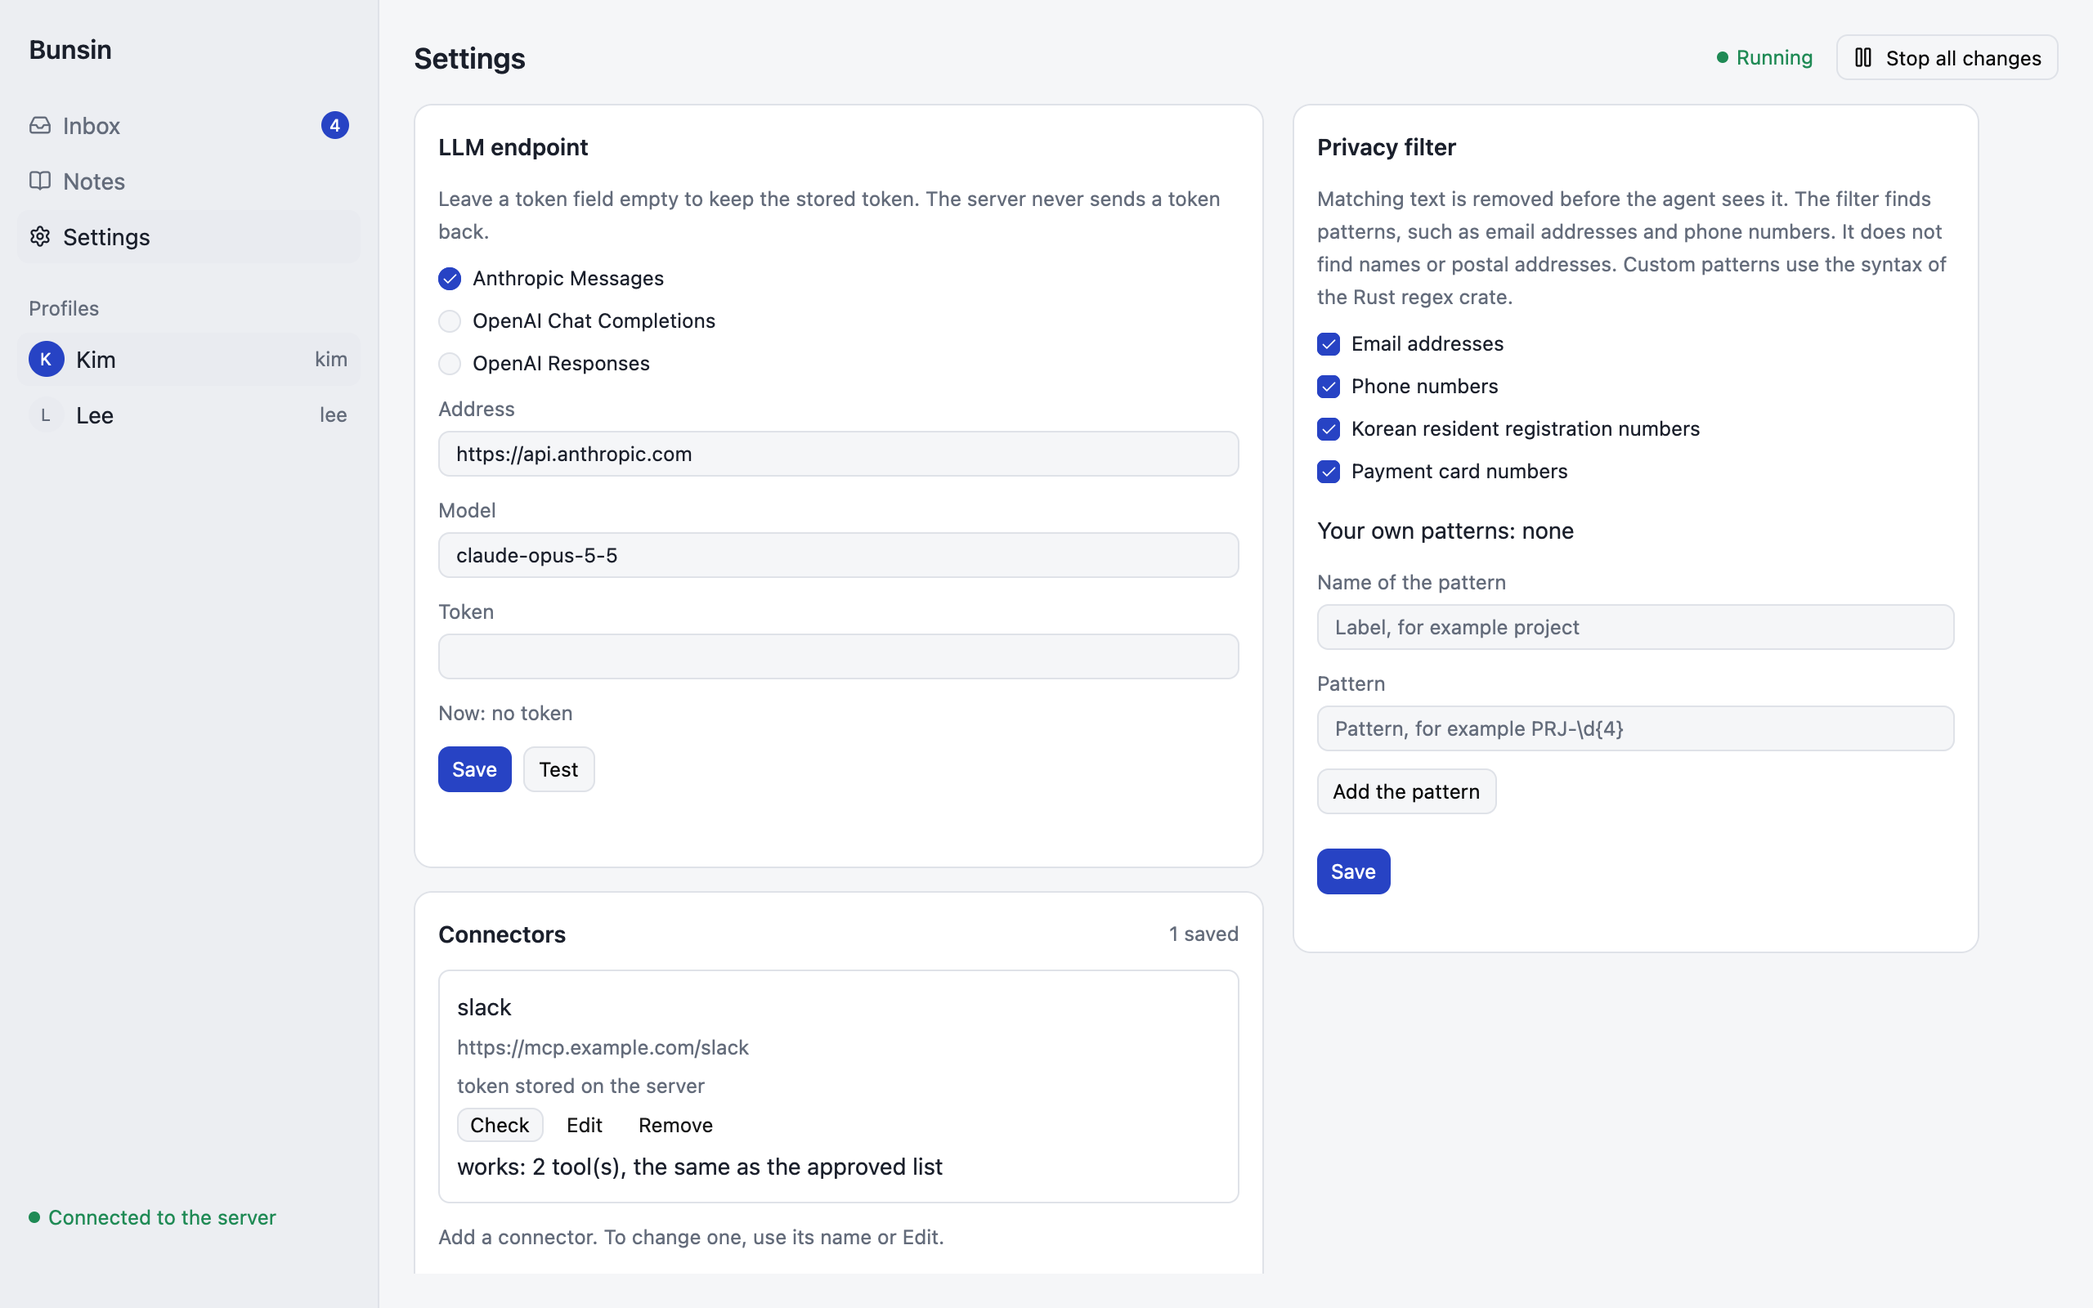
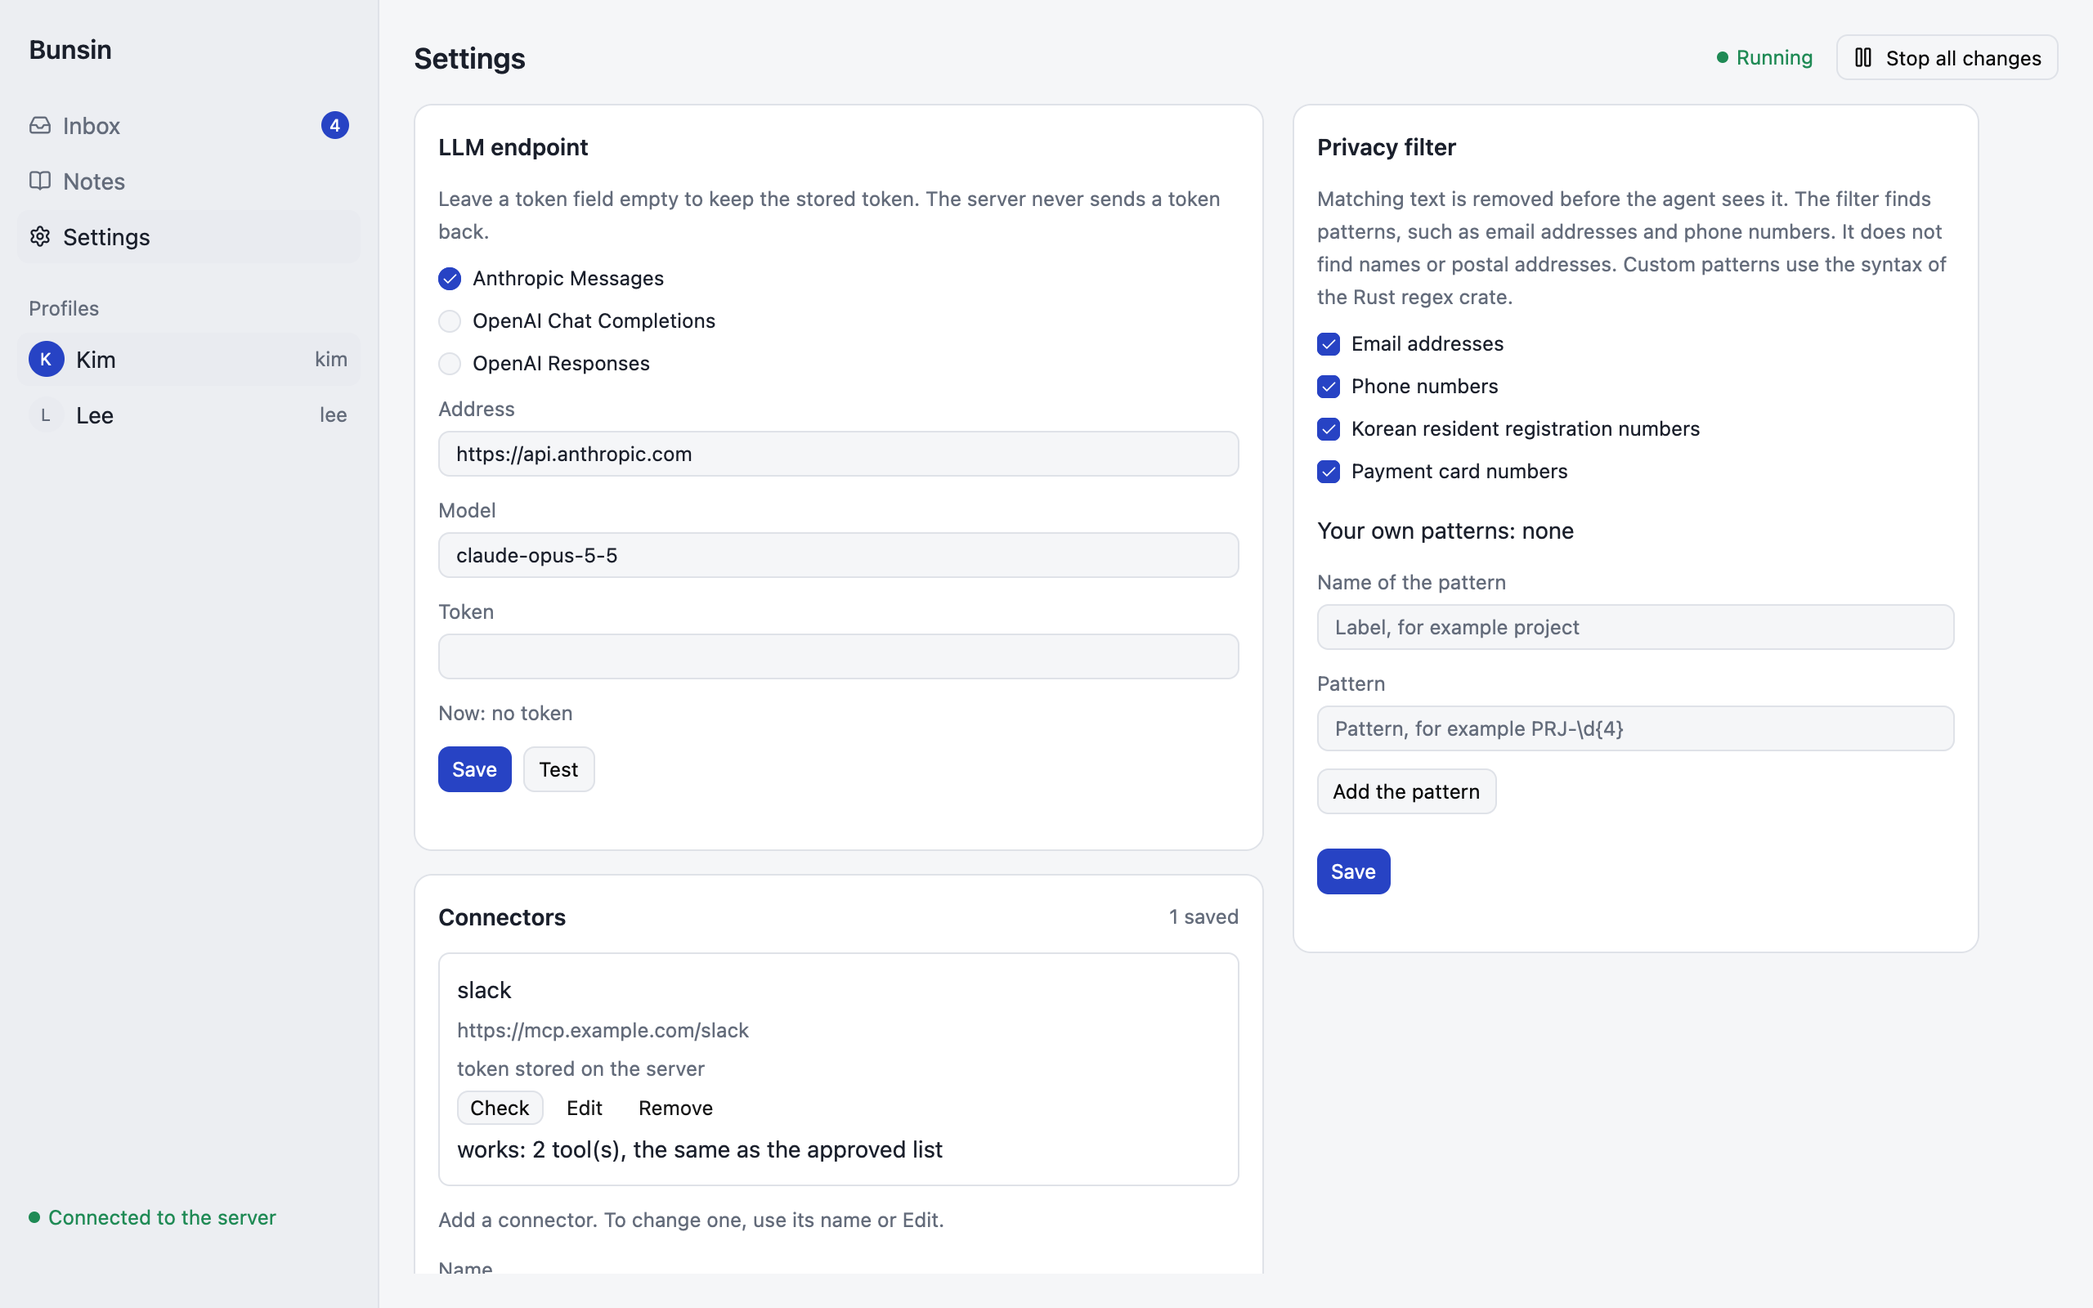
Refuse a reserved token header in every settings path
- The header check sits with the address rules, so config-set and every connect pass it.
  Before, a settings file could name Host as the token header.
- llm-set has defaults only for the Claude format.
- The window shows a test result only beside the saved endpoint, and says that a test runs.

Changed region(s): [[0.1875, 0.6875, 0.4688, 0.9688], [0.5625, 0.6875, 0.5938, 0.7188]]

diff --git a/crates/app/tests/connections.rs b/crates/app/tests/connections.rs
@@ -1113,6 +1113,8 @@ fn test_sends_one_request_to_the_saved_endpoint_and_shows_the_result(cx: &mut Te
             label(window, "llm-message"),
             "Save the endpoint first. The test uses the saved settings."
         );
+        // The earlier "Works" was for the saved model. It is not shown beside another one.
+        assert_eq!(label(window, "llm-test"), "");
         fill(window, cx, "llm-model", "m");
     });
     assert_eq!(rig.llm.requests().len(), before + 1);
@@ -1130,4 +1132,73 @@ fn test_sends_one_request_to_the_saved_endpoint_and_shows_the_result(cx: &mut Te
         assert_not_on_screen(window, TOKEN, "https://llm.example/v1");
     });
     assert_eq!(rig.llm.requests().len(), before + 2);
+}
+
+#[gpui_kit::test]
+fn the_window_says_that_a_test_runs_until_its_result_arrives(cx: &mut TestAppContext) {
+    use bunsin_api::{Connections, LlmConnection, LlmTest};
+    use bunsin_app::bridge::{ConnectionResult, UiState};
+    use gpui_kit::AppContext;
+    // The test is the bridge: it sends the states, and it answers no command.
+    let (commands, mut received) = tokio::sync::mpsc::unbounded_channel();
+    let (states, receiver) = tokio::sync::mpsc::unbounded_channel();
+    cx.update(gpui_kit::init);
+    let (window, _shell) = cx.update(|cx| {
+        gpui_kit::open_window(Default::default(), cx, |window, cx| {
+            cx.new(|cx| Shell::new(receiver, commands, window, cx))
+        })
+        .unwrap()
+    });
+    let saved = UiState {
+        selected: Some("kim".into()),
+        connections: Some(Connections {
+            llm: Some(LlmConnection {
+                wire: Wire::OpenAiResponses,
+                base_url: "https://llm.example/v1".into(),
+                model: "m".into(),
+                timeout_secs: 120,
+                token: TokenSource::Stored,
+            }),
+            connectors: Default::default(),
+        }),
+        connected: true,
+        ..UiState::default()
+    };
+    states.send(saved.clone()).unwrap();
+    cx.run_until_parked();
+    on_screen(cx, window, |window, cx| window.click("tab-settings", cx));
+    on_screen(cx, window, |window, cx| window.click("test-llm", cx));
+    on_screen(cx, window, |window, _| {
+        assert_eq!(
+            label(window, "llm-test"),
+            "Testing… One short request goes to the endpoint. It waits for the answer up to the timeout."
+        );
+    });
+    // The first command was the refresh of a new window. The second is the test.
+    let sent: Vec<_> = std::iter::from_fn(|| received.try_recv().ok()).collect();
+    assert_eq!(
+        sent.last(),
+        Some(&bunsin_app::bridge::UiCommand::TestLlm { profile: "kim".into() })
+    );
+
+    // A refresh without a new command result does not end the text.
+    states.send(saved.clone()).unwrap();
+    cx.run_until_parked();
+    on_screen(cx, window, |window, _| {
+        assert!(label(window, "llm-test").starts_with("Testing…"))
+    });
+
+    let done = UiState {
+        connection_result: Some(ConnectionResult::LlmTested(Ok(LlmTest {
+            works: true,
+            detail: "the endpoint answered".into(),
+        }))),
+        connection_commands: 1,
+        ..saved
+    };
+    states.send(done).unwrap();
+    cx.run_until_parked();
+    on_screen(cx, window, |window, _| {
+        assert_eq!(label(window, "llm-test"), "Works: the endpoint answered");
+    });
 }

diff --git a/crates/daemon/tests/cli.rs b/crates/daemon/tests/cli.rs
@@ -208,6 +208,27 @@ fn settings_round_trip_and_unsafe_settings_are_refused() {
         "stdio settings",
     );
     assert!(error.contains("--allow-stdio-connectors"), "{error}");
+
+    // The settings file cannot name a token header that the connection sets itself.
+    config["connectors"] = serde_json::json!({
+        "wiki": {"mcp": {"transport": "http", "url": "https://mcp.example.com/wiki"}, "token_secret": null,
+                 "token_header": "Host"}
+    });
+    std::fs::write(&file, config.to_string()).unwrap();
+    let error = stderr_of_failure(
+        server.run(&kim, &["config-set", "kim", file.to_str().unwrap()]),
+        "a reserved token header",
+    );
+    assert!(error.contains("cannot carry a token"), "{error}");
+    let stored = stdout_of(server.run(&kim, &["config-show", "kim"]), "config-show");
+    assert!(!stored.contains("token_header"), "{stored}");
+    // Another header name is accepted in the file.
+    config["connectors"]["wiki"]["token_header"] = serde_json::json!("X-API-Key");
+    std::fs::write(&file, config.to_string()).unwrap();
+    stdout_of(
+        server.run(&kim, &["config-set", "kim", file.to_str().unwrap()]),
+        "config-set with a token header",
+    );
 }
 
 #[test]
@@ -299,6 +320,33 @@ fn llm_test_reports_why_the_endpoint_does_not_work() {
     assert!(
         error.contains("the endpoint does not work: the LLM cannot be used: the profile has no `llm` settings"),
         "{error}"
+    );
+    // Another format than Claude's has no default address or model.
+    let error = stderr_of_failure(
+        server.run(&kim, &["llm-set", "kim", "--wire", "openai-responses"]),
+        "llm-set without an address",
+    );
+    assert!(error.contains("give --base-url: this format has no default"), "{error}");
+    let set = [
+        "llm-set",
+        "kim",
+        "--wire",
+        "openai-responses",
+        "--base-url",
+        "https://llm.example.com/v1",
+    ];
+    let error = stderr_of_failure(server.run(&kim, &set), "llm-set without a model");
+    assert!(error.contains("give --model: this format has no default"), "{error}");
+    stdout_of(server.run(&kim, &[&set[..], &["--model", "m"]].concat()), "llm-set");
+    assert!(
+        stdout_of(server.run(&kim, &["connections", "kim"]), "connections")
+            .starts_with("llm\topenai-responses\thttps://llm.example.com/v1\tm\tno token\n")
+    );
+    // The Claude format keeps its defaults.
+    stdout_of(server.run(&kim, &["llm-set", "kim"]), "llm-set with defaults");
+    assert!(
+        stdout_of(server.run(&kim, &["connections", "kim"]), "connections")
+            .starts_with("llm\tanthropic-messages\thttps://api.anthropic.com\tclaude-opus-5-5\t")
     );
     // A token tests only its own profile.
     let error = stderr_of_failure(server.run(&kim, &["llm-test", "lee"]), "llm-test for another profile");

diff --git a/crates/daemon/src/main.rs b/crates/daemon/src/main.rs
@@ -9,6 +9,7 @@ use bunsin_api::{
 use bunsin_client::{RemoteConfig, RemoteEngine};
 use bunsin_core::event::InboundEvent;
 use bunsin_core::records::InboxBody;
+use bunsin_core::settings::Wire;
 use bunsin_daemon::server::{Poller, ServeConfig, serve};
 use bunsin_daemon::{RealBackends, UpstreamPolicy};
 use bunsin_engine::Engine;
@@ -231,11 +232,14 @@ enum Command {
         profile: String,
         #[arg(long, value_parser = ["anthropic-messages", "openai-chat", "openai-responses"], default_value = "anthropic-messages")]
         wire: String,
-        /// The default is the Claude API.
-        #[arg(long, default_value = bunsin_core::settings::ANTHROPIC_BASE_URL)]
-        base_url: String,
-        #[arg(long, default_value = bunsin_core::settings::ANTHROPIC_DEFAULT_MODEL)]
-        model: String,
+        /// With the format anthropic-messages, the default is the Claude API.
+        /// The other formats have no default.
+        #[arg(long)]
+        base_url: Option<String>,
+        /// With the format anthropic-messages, the default is a Claude model.
+        /// The other formats have no default.
+        #[arg(long)]
+        model: Option<String>,
         #[arg(long, default_value_t = 120)]
         timeout_secs: u64,
         #[command(flatten)]
@@ -252,6 +256,7 @@ enum Command {
         url: String,
         /// The header that carries the token as it is, for example X-API-Key.
         /// Without it, the token goes as `Authorization: Bearer <token>`.
+        /// Give it with every `connector-set` of this connector: a call without it sets Bearer again.
         #[arg(long)]
         token_header: Option<String>,
         #[command(flatten)]
@@ -635,11 +640,17 @@ async fn run(cli: Cli) -> Result<(), String> {
             timeout_secs,
             token,
         } => {
-            let wire = serde_json::from_value(serde_json::Value::String(wire)).map_err(|e| e.to_string())?;
+            let wire: Wire = serde_json::from_value(serde_json::Value::String(wire)).map_err(|e| e.to_string())?;
+            // The Claude address and model fit only the Claude format.
+            let default = |value: Option<String>, name: &str, claude: &str| match (value, wire) {
+                (Some(value), _) => Ok(value),
+                (None, Wire::AnthropicMessages) => Ok(claude.to_owned()),
+                (None, _) => Err(format!("give {name}: this format has no default")),
+            };
             let update = LlmUpdate {
                 wire,
-                base_url,
-                model,
+                base_url: default(base_url, "--base-url", bunsin_core::settings::ANTHROPIC_BASE_URL)?,
+                model: default(model, "--model", bunsin_core::settings::ANTHROPIC_DEFAULT_MODEL)?,
                 timeout_secs,
                 token: token.change()?,
                 expected: bunsin_api::Expected::Unchecked,

diff --git a/crates/app/tests/screens.rs b/crates/app/tests/screens.rs
@@ -5,12 +5,13 @@
 
 mod common;
 
-use bunsin_api::{ConnectorUpdate, EngineApi, Expected, TokenChange, WikiPageUpdate};
+use bunsin_api::{ConnectorUpdate, EngineApi, Expected, LlmUpdate, TokenChange, WikiPageUpdate};
 use bunsin_app::bridge::{NoteResult, SaveError, UiCommand, UiState, apply};
 use bunsin_app::connect::{AppView, Source};
 use bunsin_app::connection::MemoryTokenStore;
 use bunsin_app::shell::Shell;
 use bunsin_core::event::InboundEvent;
+use bunsin_core::settings::Wire;
 use bunsin_core::wiki::WikiText;
 use gpui_kit::assets::Assets;
 use gpui_kit::component::ThemeMode;
@@ -271,6 +272,30 @@ fn draw(mode: ThemeMode, dir: &Path, rt: &tokio::runtime::Runtime, rig: &common:
     };
     states.send(on(check)).unwrap();
     shot(&mut cx, window, dir, &name("settings"));
+
+    // The result of a test of the endpoint, and the connector form with its header field.
+    let llm = LlmUpdate {
+        wire: Wire::OpenAiResponses,
+        base_url: "https://llm.example.com/v1".into(),
+        model: "example-model".into(),
+        timeout_secs: 120,
+        token: TokenChange::Set("fixture-token".into()),
+        expected: Expected::Unchecked,
+    };
+    rt.block_on(rig.engine.set_llm("kim", llm)).unwrap();
+    rig.llm.reply(
+        r#"{"kind":"ignore","rationale":"connection test","summary":null,"tool":null,"args_json":null}"#,
+        41,
+    );
+    let test = UiCommand::TestLlm { profile: "kim".into() };
+    states.send(on(test)).unwrap();
+    cx.run_until_parked();
+    cx.update_window(window, |_, window, cx| {
+        window.render_frame(cx);
+        window.scroll("llm-token-state", ScrollDelta::Pixels(point(px(0.), px(-330.))), cx);
+    })
+    .unwrap();
+    shot(&mut cx, window, dir, &name("settings-test"));
 }
 
 fn main() {

diff --git a/crates/app/src/connections_form.rs b/crates/app/src/connections_form.rs
@@ -540,6 +540,8 @@ impl Shell {
         // The result of the last test, or that a test runs now.
         let (test_text, test_works) = match &self.state.connection_result {
             _ if form.llm_testing => (TESTING.to_owned(), None),
+            // A result describes the saved endpoint. Beside a changed form it would describe another one.
+            _ if llm_changed => (String::new(), None),
             Some(ConnectionResult::LlmTested(Ok(test))) if test.works => {
                 (format!("Works: {}", test.detail), Some(true))
             }
@@ -634,8 +636,15 @@ impl Shell {
             );
         }
         let llm_section = llm_section
-            .child(labelled("llm-message", form.llm_message.unwrap_or_default()))
-            .child(labelled("llm-result", llm_result))
+            // The status texts share one box, so empty ones leave no band of gaps.
+            .child(
+                div()
+                    .flex()
+                    .flex_col()
+                    .text_sm()
+                    .child(labelled("llm-message", form.llm_message.unwrap_or_default()))
+                    .child(labelled("llm-result", llm_result)),
+            )
             .children(form.llm_conflict.then(|| {
                 Self::conflict_warning(
                     "llm",

diff --git a/crates/daemon/src/lib.rs b/crates/daemon/src/lib.rs
@@ -12,7 +12,7 @@ pub mod server;
 use bunsin_api::ProfileConfig;
 use bunsin_connectors::{McpConnector, TokenAuth};
 use bunsin_core::ports::{BoxFuture, Connector, LlmClient};
-use bunsin_core::settings::{ConnectorSection, LlmSection, McpConfig, origin_of};
+use bunsin_core::settings::{ConnectorSection, LlmSection, McpConfig, check_token_header, origin_of};
 use bunsin_engine::{Backends, ProfileSecrets, Runtime};
 use bunsin_llm::{ApiToken, HttpLlmClient, LlmConfig};
 use serde_json::Value;
@@ -184,6 +184,11 @@ impl RealBackends {
     fn connector_section(&self, name: &str, section: &Value) -> Result<ConnectorSection, String> {
         let section: ConnectorSection = serde_json::from_value(section.clone())
             .map_err(|e| format!("the settings of connector `{name}` are invalid: {e}"))?;
+        // Every way to store settings and every connect passes here. A token header such as `Host`
+        // would change where an allowed address leads.
+        if let Some(header) = &section.token_header {
+            check_token_header(header).map_err(|e| format!("connector `{name}`: {e}"))?;
+        }
         match &section.mcp {
             McpConfig::Stdio { .. } if !self.allow_stdio => {
                 return Err(format!(

diff --git a/docs/ARCHITECTURE.md b/docs/ARCHITECTURE.md
@@ -226,7 +226,9 @@
 - 커넥터는 권한을 판단하지 않는다. 엔진이 호출 전에 정책과 pin을 검사한다.
 - OAuth는 아직 없다. HTTP transport는 token을 `Authorization: Bearer <token>`으로 보낸다.
   커넥터 설정의 `token_header`가 있으면 그 헤더가 token을 그대로 담는다(예: `X-API-Key`).
-  연결이 스스로 정하는 헤더(`Host`, `Content-Type`, `Mcp-Session-Id` 등)는 거부한다. token이 없는 커넥터는 두 헤더 모두 보내지 않는다.
+  연결이 스스로 정하는 헤더(`Host`, `Content-Type`, `Mcp-Session-Id` 등)는 거부한다.
+  이 검사는 주소 규칙과 같은 자리에 있어서, 설정 파일로 저장할 때와 접속할 때 모두 지난다.
+  `Host`를 바꿀 수 있으면 허용된 주소로 보낸 요청이 다른 가상 호스트로 갈 수 있기 때문이다. token이 없는 커넥터는 두 헤더 모두 보내지 않는다.
   LLM token의 헤더는 wire 형식이 정하고, 바꿀 수 없다.
 - HTTP transport는 redirect를 따르지 않는다.
 - 실제 Slack, Jira, Confluence MCP 서버로는 아직 연결해 보지 않았다. 테스트는 로컬 rmcp 서버를 쓴다.

diff --git a/README.ko.md b/README.ko.md
@@ -192,6 +192,9 @@ bunsind connector-remove kim jira                # 커넥터와 그 token을 지
   응답이 agent에게 필요한 형식이면 테스트가 통과합니다.
 - 커넥터에는 token이 없어도 됩니다. token을 빼고 저장하면 됩니다. token은 `Authorization: Bearer <token>`으로 갑니다.
   MCP 서버가 다른 헤더를 읽으면 `--token-header`나 창에서 헤더 이름을 지정합니다. 그 헤더가 token을 그대로 담습니다.
+  그 커넥터에 `connector-set`을 실행할 때마다 `--token-header`를 주십시오. 빼면 `Authorization: Bearer`로 돌아갑니다.
+- `--wire openai-chat`이나 `openai-responses`에서는 `llm-set`에 `--base-url`과 `--model`이 필요합니다.
+  기본값은 Claude 형식에만 있습니다.
 - 한 workspace에 묶이지 않은 Claude API key는 workspace ID도 필요합니다. 설정 파일의 `llm` 항목에 `"workspace_id"`를 넣으십시오.
 - 서버는 token을 암호화해 저장하고, 다시 돌려주지 않습니다. `connections`는 "서버에 저장됨",
   "서버 환경 변수", "없음" 중 하나만 보여 줍니다.

diff --git a/README.md b/README.md
@@ -210,7 +210,10 @@ bunsind connector-remove kim jira                # removes the connector and its
   agent needs.
 - A connector needs no token: leave the token out. A token goes as `Authorization: Bearer
   <token>`. If the MCP server reads another header, name it with `--token-header`, or in the
-  window. That header then carries the token as it is.
+  window. That header then carries the token as it is. Give `--token-header` with every
+  `connector-set` of that connector: a call without it sets `Authorization: Bearer` again.
+- With `--wire openai-chat` or `openai-responses`, `llm-set` needs `--base-url` and `--model`.
+  Only the Claude format has defaults.
 - A Claude API key that is not scoped to one workspace also needs a workspace ID. Set
   `"workspace_id"` in the `llm` section of the settings file.
 - The server stores each token encrypted and never sends it back. `connections` shows
